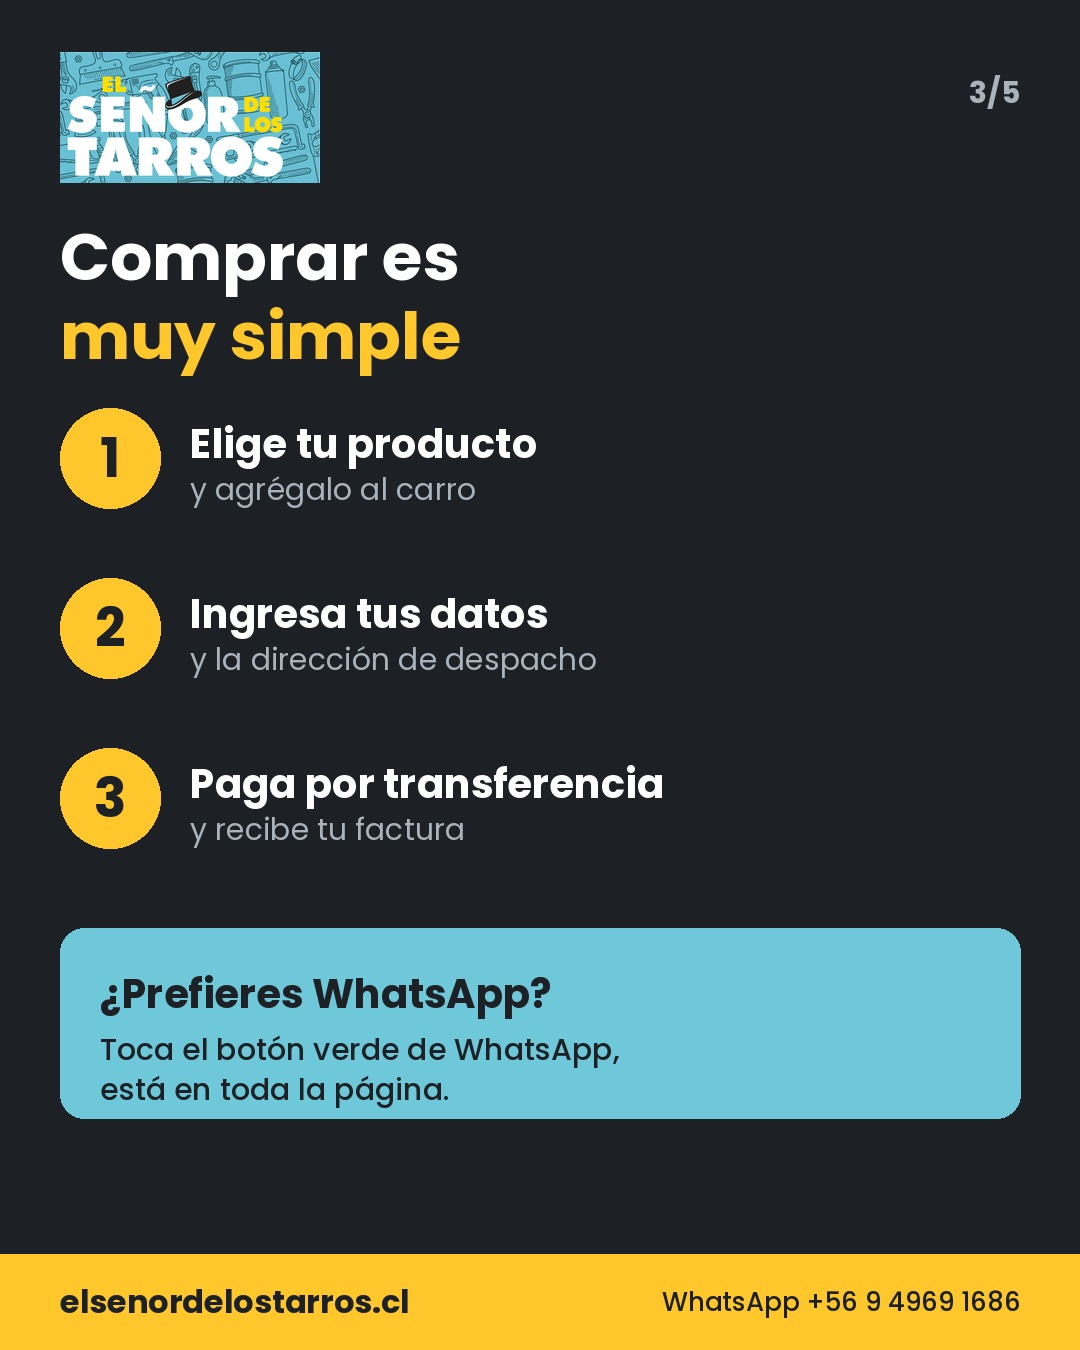
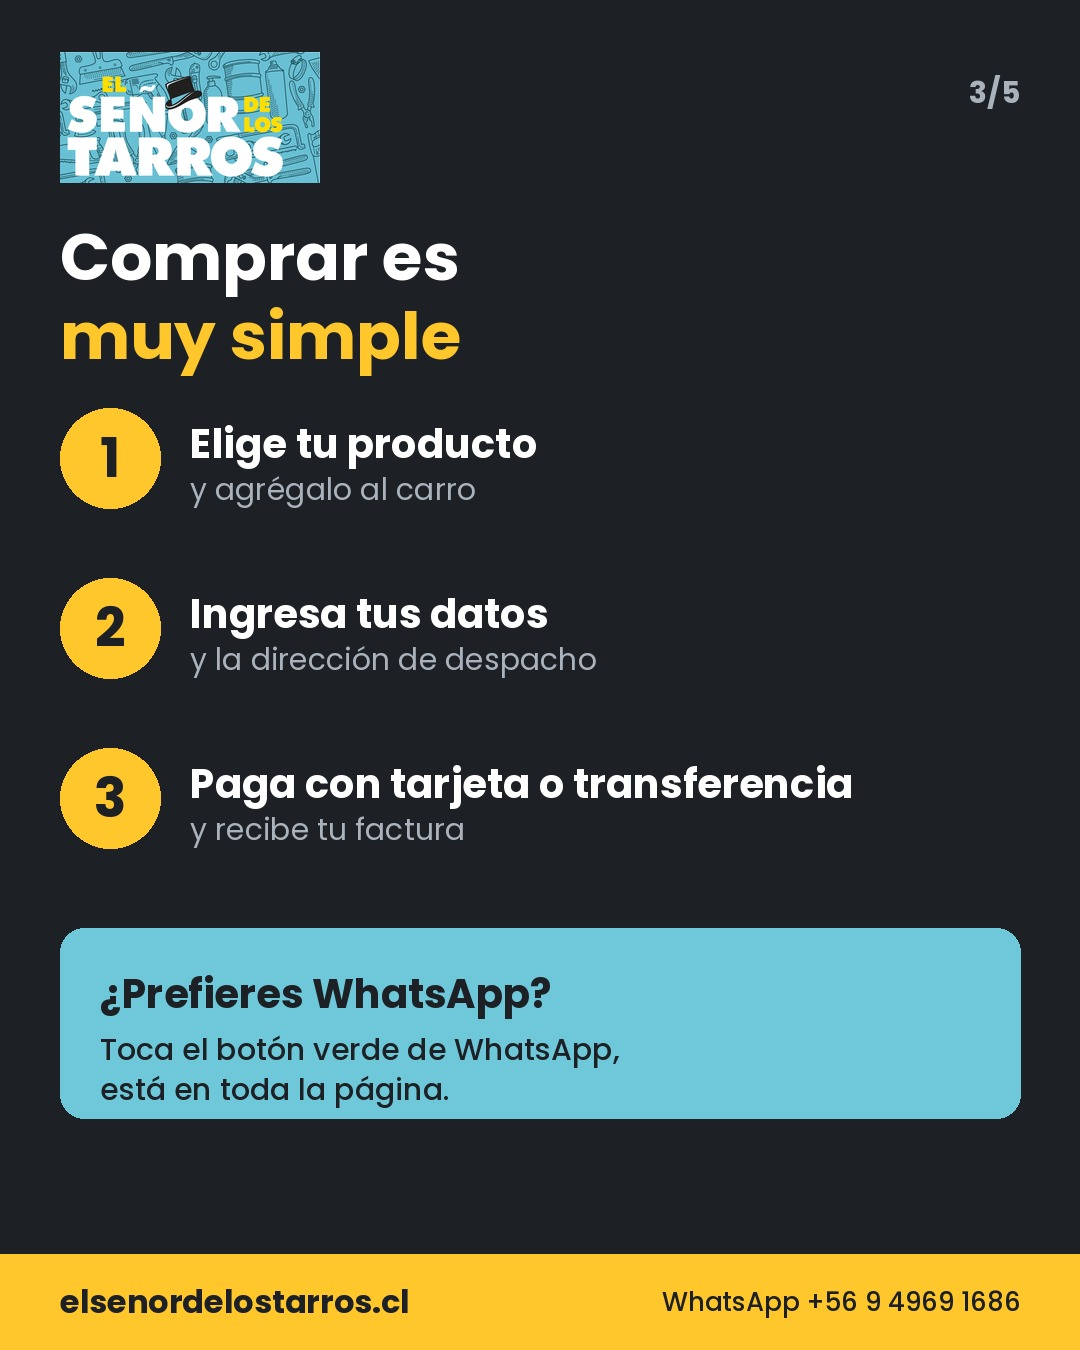
Carrusel web: pago con tarjeta o transferencia
Claude-Session: https://claude.ai/code/session_01Pce6QpwRvUsQ1XzTWBf9zB

Changed region(s): [[0.275, 0.56, 0.7944, 0.5911]]

diff --git a/trabajo/scripts/insta_web.py b/trabajo/scripts/insta_web.py
@@ -69,7 +69,7 @@ img.save(f'{OUT}/web-2-categorias.jpg',quality=92)
 # 3 cómo comprar
 img,d=base(3)
 y=titulo(d,210,['Comprar es','muy simple'],66,acento=['muy simple'])
-pasos=[('1','Elige tu producto','y agrégalo al carro'),('2','Ingresa tus datos','y la dirección de despacho'),('3','Paga por transferencia','y recibe tu factura')]
+pasos=[('1','Elige tu producto','y agrégalo al carro'),('2','Ingresa tus datos','y la dirección de despacho'),('3','Paga con tarjeta o transferencia','y recibe tu factura')]
 y+=40
 for n,t,s in pasos:
     d.ellipse([60,y,160,y+100],fill=AMAR); d.text((110,y+50),n,font=f(FB,54),fill=CARBON,anchor='mm')
